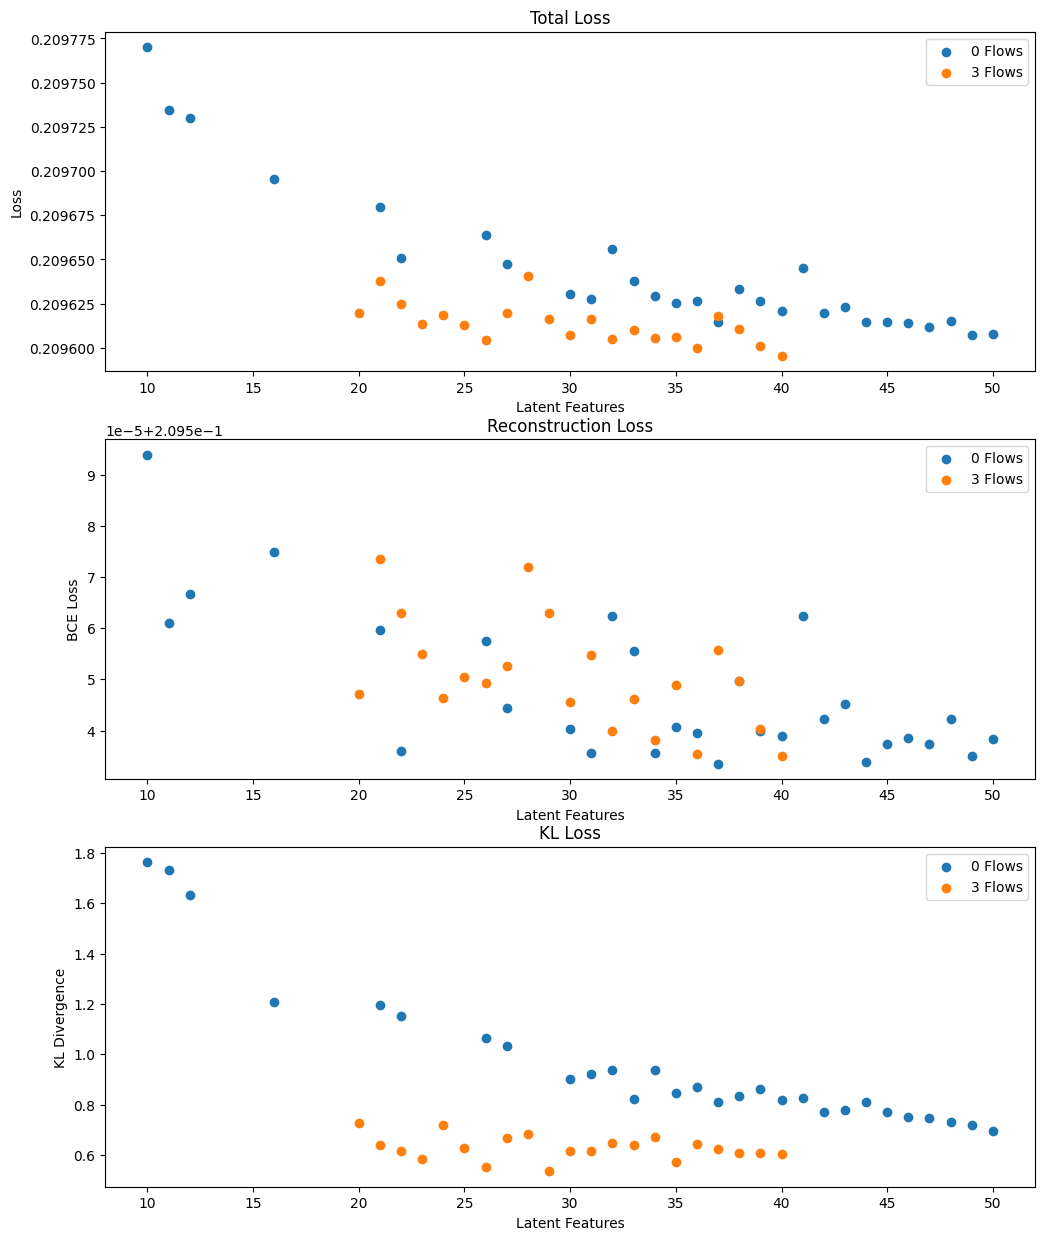
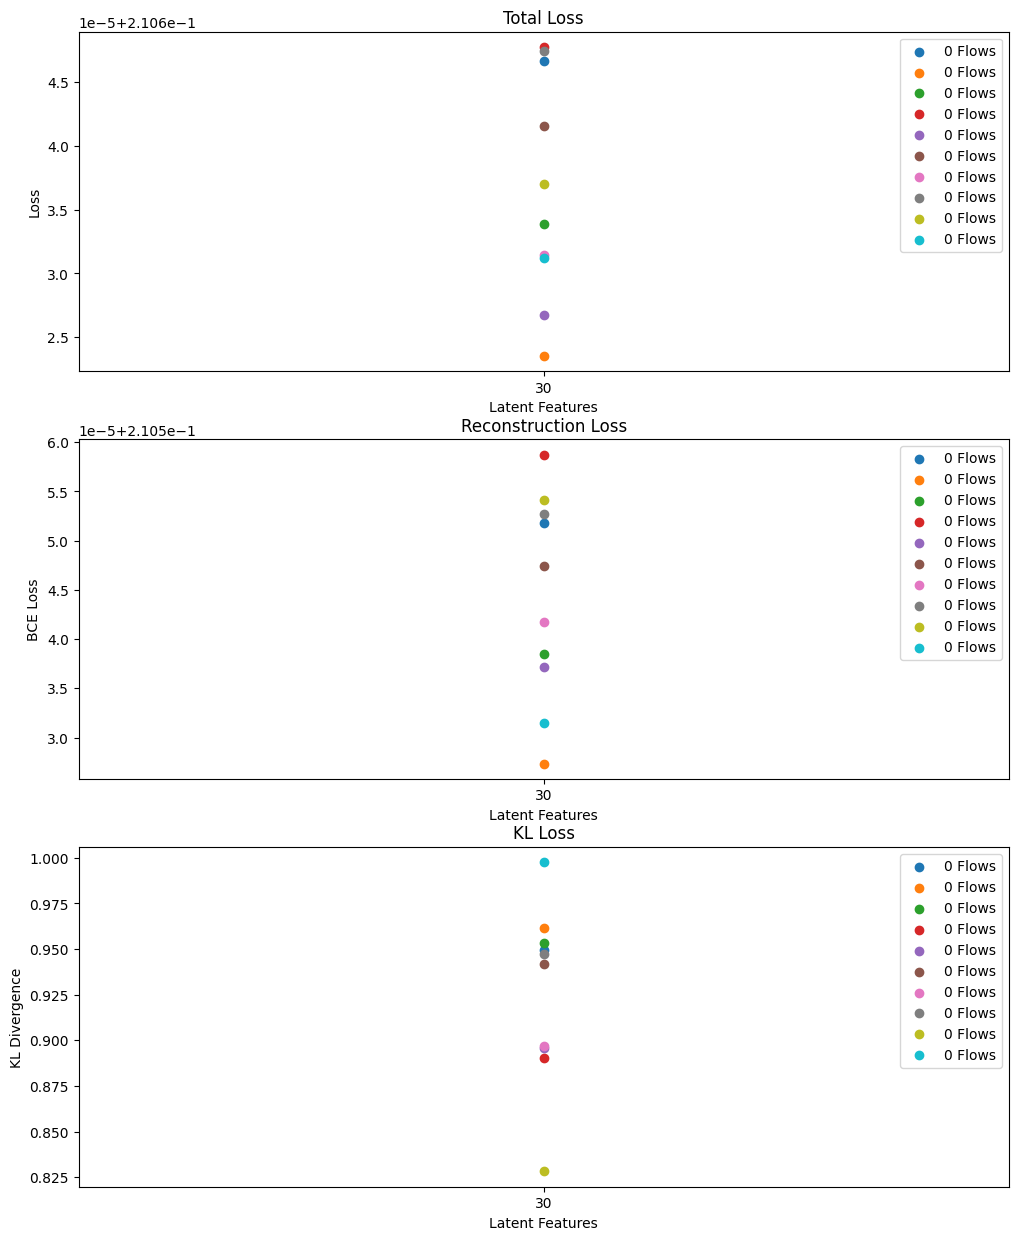
Code

diff --git a/balance_dataset.py b/balance_dataset.py
@@ -199,23 +199,23 @@ print()
 #             count += 1
 #     if count < 2:
 #         print(galaxy, count)
-
-for galaxy in transitional:
-    count = 0
-    for file in augmented_transitional:
-        if file.startswith(str(galaxy)):
-            count += 1
-    if count != 8:
-        print(galaxy, count)
-
-
-for galaxy in ellipticals:
-    count = 0
-    for file in augmented_ellipticals:
-        if file.startswith(str(galaxy)):
-            count += 1
-    if count != 8:
-        print(galaxy, count)
+#
+# for galaxy in transitional:
+#     count = 0
+#     for file in augmented_transitional:
+#         if file.startswith(str(galaxy)):
+#             count += 1
+#     if count != 8:
+#         print(galaxy, count)
+#
+#
+# for galaxy in ellipticals:
+#     count = 0
+#     for file in augmented_ellipticals:
+#         if file.startswith(str(galaxy)):
+#             count += 1
+#     if count != 8:
+#         print(galaxy, count)
 
 
 
@@ -248,25 +248,27 @@ for galaxy in ellipticals:
 # plt.show()
 
 
+transitional_sample = random.sample(transitional, 36)
 
-# fig, axs = plt.subplots(6, 6, figsize=(15, 15))
-#
-# for i in range(0, 6):
-#     for j in range(0, 6):
-#
-#         index = i + (6*j)
-#         print(index)
-#
-#         image = mpimg.imread("/cosma7/data/Eagle/web-storage/RefL0100N1504_Subhalo/galrand_" + str(unknown_sample[index]) + ".png")
-#
-#         sersic = all_properties.loc[all_properties["GalaxyID"] == unknown_sample[index], "n_r"].values[0]
-#
-#         axs[i][j].imshow(image)
-#         axs[i][j].set_title(str(unknown_sample[index]) + ", n=" + str(sersic))
-#         axs[i][j].tick_params(axis='both', which='both', length=0, labelbottom=False, labelleft=False)
-#
-# plt.savefig("Variational Eagle/Plots/sample_unknown", bbox_inches='tight')
-# plt.show()
+fig, axs = plt.subplots(6, 6, figsize=(15, 15))
+
+for i in range(0, 6):
+    for j in range(0, 6):
+
+        index = i + (6*j)
+        print(index)
+
+        image = mpimg.imread("/cosma7/data/Eagle/web-storage/RefL0100N1504_Subhalo/galrand_" + str(transitional_sample[index]) + ".png")
+
+        sersic = all_properties.loc[all_properties["GalaxyID"] == transitional_sample[index], "n_r"].values[0]
+        dt = all_properties.loc[all_properties["GalaxyID"] == transitional_sample[index], "DiscToTotal"].values[0]
+
+        axs[i][j].imshow(image)
+        axs[i][j].set_title(str(transitional_sample[index]) + "\n, d/t=" + str(round(dt, 3)) + ", n=" + str(round(sersic, 1)))
+        axs[i][j].tick_params(axis='both', which='both', length=0, labelbottom=False, labelleft=False)
+
+plt.savefig("Variational Eagle/Plots/sample_dt_transitional", bbox_inches='tight')
+plt.show()
 
 
 elliptical_sample = random.sample(ellipticals, 36)
@@ -286,7 +288,7 @@ for i in range(0, 6):
 
         axs[i][j].imshow(image)
         # axs[i][j].set_title(str(elliptical_sample[index]) + ", n=" + str(sersic))
-        axs[i][j].set_title(str(elliptical_sample[index]) + ", d/t=" + str(round(dt, 3)))
+        axs[i][j].set_title(str(elliptical_sample[index]) + "\n, d/t=" + str(round(dt, 3)) + ", n=" + str(round(sersic, 1)))
         axs[i][j].tick_params(axis='both', which='both', length=0, labelbottom=False, labelleft=False)
 
 plt.savefig("Variational Eagle/Plots/sample_dt_elliptical", bbox_inches='tight')

diff --git a/normal_vs_flows.py b/normal_vs_flows.py
@@ -135,9 +135,9 @@ axs[2].set_xlabel("Latent Features")
 
 
 
-for n_flows in [0, 3]:
+for n_flows in [0]:
 
-    for run in [1]:
+    for run in [1, 2, 3, 4, 5, 6, 7, 8, 9, 10]:
 
         total_loss_all = []
         reconstruction_loss_all = []
@@ -145,8 +145,8 @@ for n_flows in [0, 3]:
 
         loss_all = pd.DataFrame(columns=["feature", "total_loss", "reconstruction_loss", "kl_loss"])
 
-        for encoding_dim in range(1, 51):
-        # for encoding_dim in [30]:
+        # for encoding_dim in range(10, 51):
+        for encoding_dim in [30]:
 
             try:
                 losses = np.load("Variational Eagle/Loss/Normalising Flow Balanced/planar_new_latent_" + str(encoding_dim) + "_beta_" + beta_name + "_epoch_" + str(epochs) + "_flows_" + str(n_flows) + "_" + str(run) + "_default.npy")
@@ -173,7 +173,7 @@ axs[1].legend()
 axs[2].legend()
 
 
-plt.savefig("Variational Eagle/Plots/normal_vs_flows_loss", bbox_inches='tight')
+plt.savefig("Variational Eagle/Plots/normal_vs_flows_loss_zoomed", bbox_inches='tight')
 plt.show()
 
 
